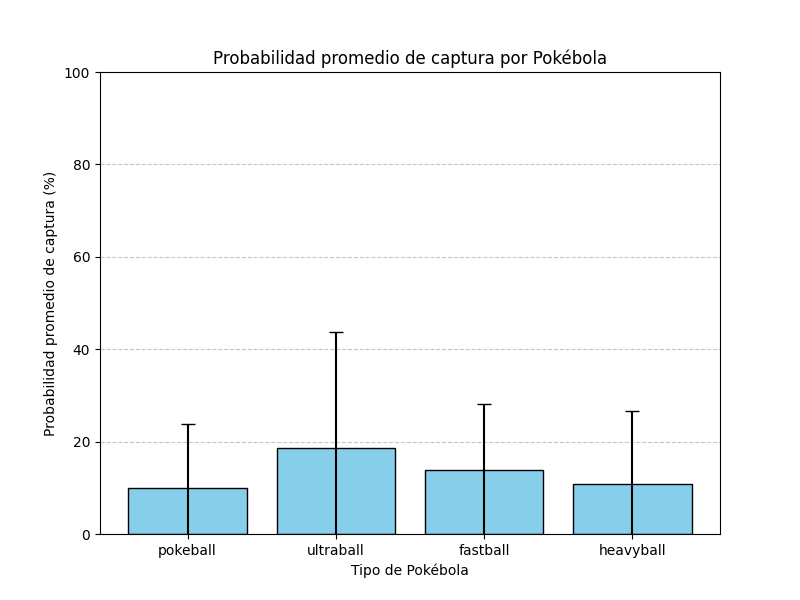
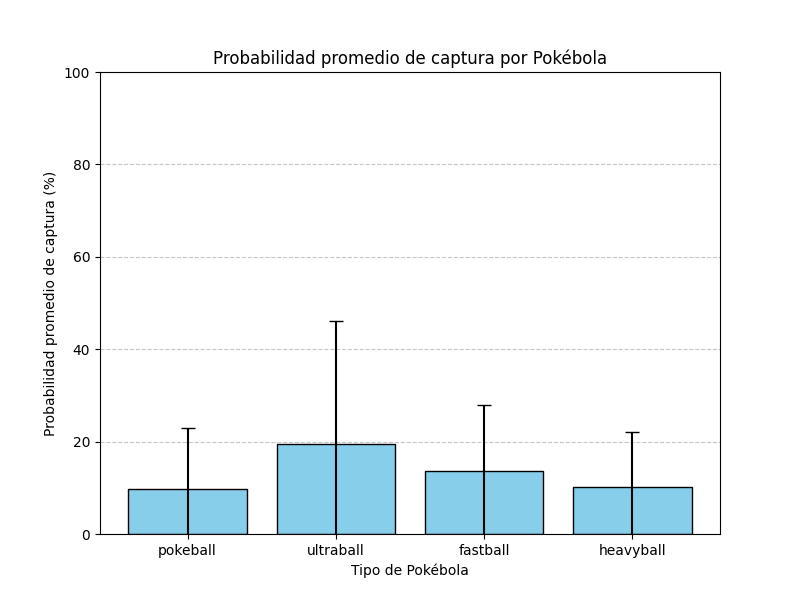
Adding seed & minimal changes

diff --git a/src/catching.py b/src/catching.py
@@ -6,6 +6,8 @@ import numpy as np
 from .pokeball import BasePokeball, FastBall, HeavyBall, PokeBall, UltraBall
 from .pokemon import Pokemon
 
+random.seed(42)
+
 _POKEBALL = {
     "pokeball": lambda x: PokeBall(x),
     "ultraball": lambda x: UltraBall(x),
